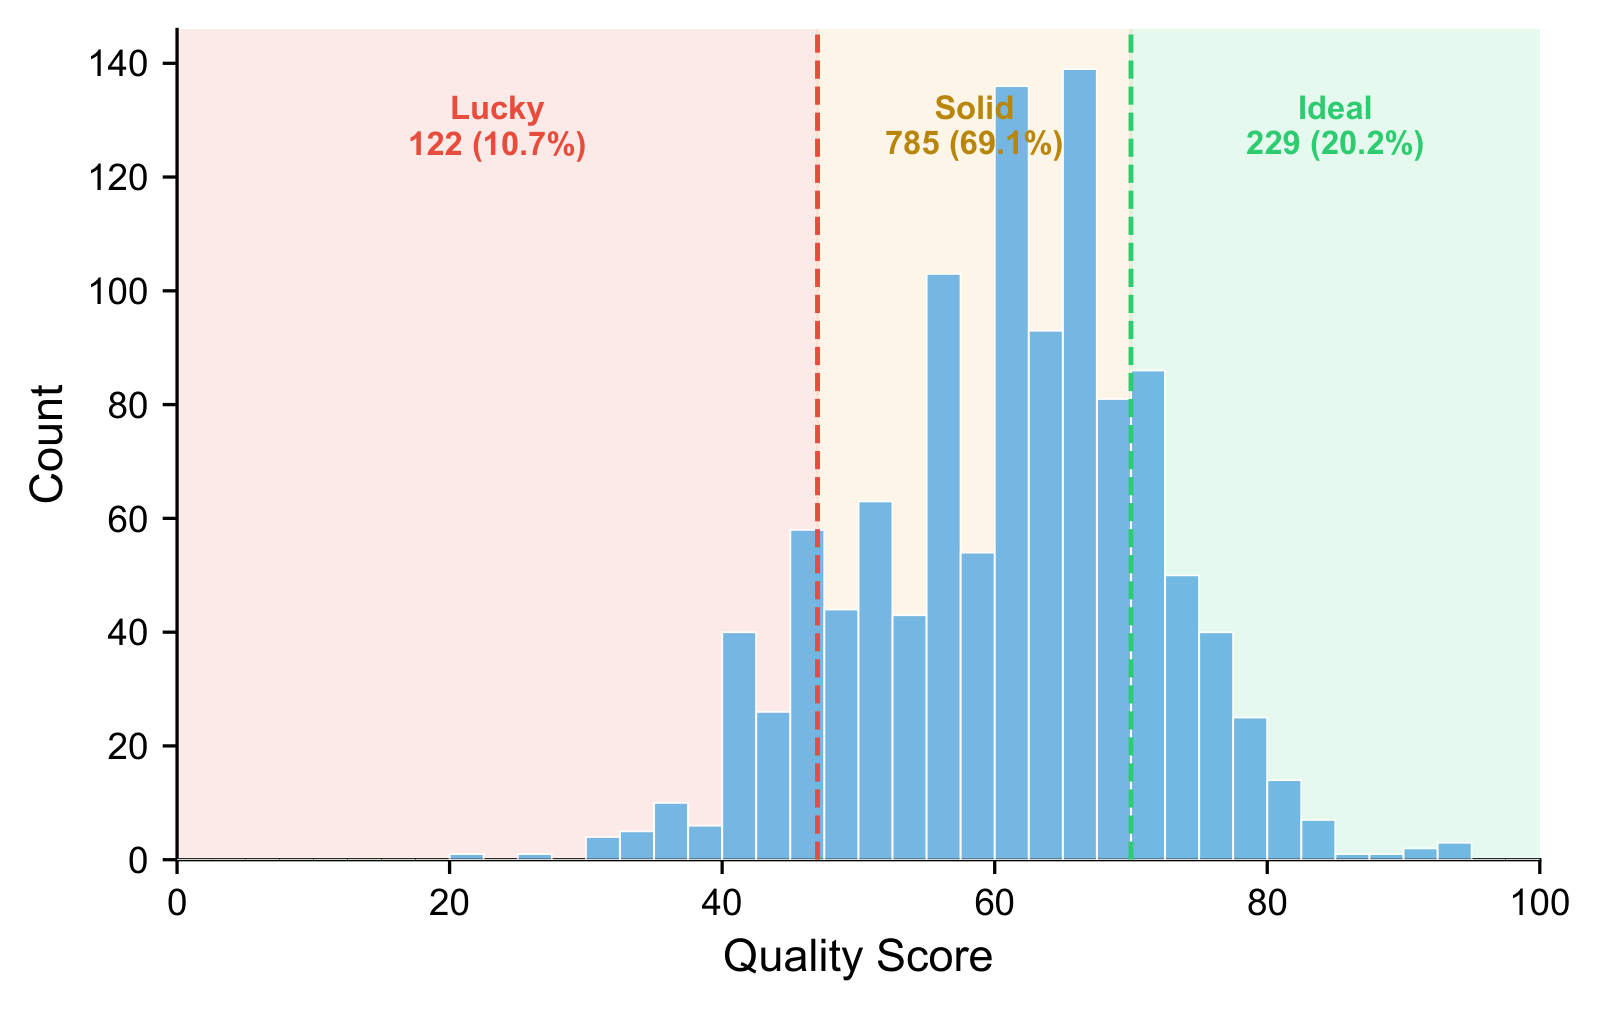
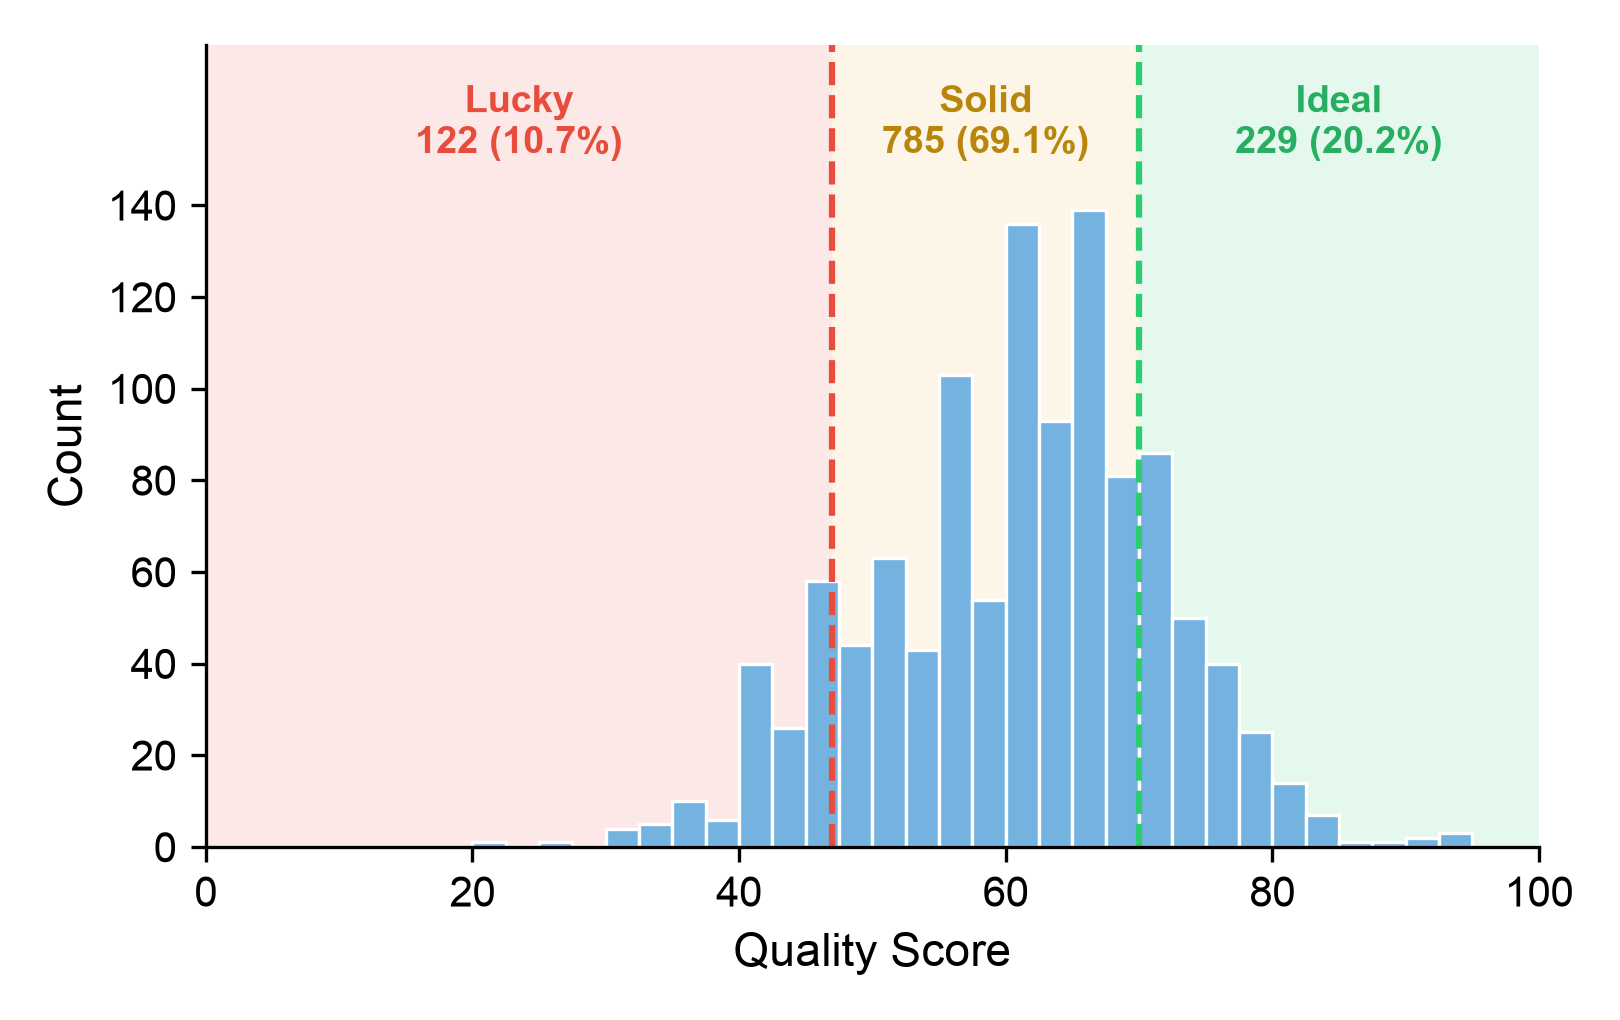
Move Figure 1 tier labels above the histogram and add its plotting script
The tier labels in the quality-distribution figure overlapped the tallest
bars. Regenerate the figure from the released AgentLens-Bench annotations
with the labels in headroom above the histogram, and add the script so the
figure can be reproduced.

diff --git a/website/index.html b/website/index.html
@@ -193,7 +193,7 @@ footer { color: var(--muted); font-size: var(--tiny); border-top: 1px solid var(
   </header>
 
   <figure class="teaser">
-    <img src="assets/quality_distribution.png" width="1600" height="1011"
+    <img src="assets/quality_distribution.png" width="1620" height="1020"
          alt="Histogram of quality scores for 1,136 passing trajectories, split into Lucky (122, 10.7%), Solid (785, 69.1%) and Ideal (229, 20.2%) bands.">
     <figcaption><b>Passing trajectories are not behaviorally homogeneous.</b> Among 1,136 passing trajectories in AgentLens-Bench, AgentLens classifies 229 as Ideal (20.2%), 785 as Solid (69.1%), and 122 as Lucky (10.7%). Binary evaluation treats all of these trajectories as equally successful, while process-aware scoring separates direct, coherent solutions from weak processes that happen to pass.</figcaption>
   </figure>

diff --git a/experiments/plot_quality_distribution.py b/experiments/plot_quality_distribution.py
@@ -1,0 +1,84 @@
+"""
+Quality Distribution Figure
+===========================
+Reproduces the paper's Figure 1: the quality-score histogram of the passing
+trajectories in AgentLens-Bench, shaded by tier (Lucky < 47, Solid, Ideal >= 70).
+
+Reads the released annotations, so no SDK run is needed.
+
+Usage:
+    python experiments/plot_quality_distribution.py
+    python experiments/plot_quality_distribution.py --csv agentlens-bench/annotations/trajectories.csv --out figures
+"""
+
+import argparse
+import csv
+from pathlib import Path
+
+import matplotlib
+
+matplotlib.use("Agg")
+import matplotlib.pyplot as plt
+
+REPO_ROOT = Path(__file__).resolve().parent.parent
+LUCKY_MAX_SCORE = 47  # passing runs below this are Lucky
+IDEAL_MIN_SCORE = 70  # passing runs at or above this are Ideal
+
+TIERS = [
+    # (label, x position of the label, label color, shading color, lower, upper)
+    ("Lucky", 23.5, "#e74c3c", "#e74c3c", 0, LUCKY_MAX_SCORE),
+    ("Solid", 58.5, "#b7860b", "#f5b041", LUCKY_MAX_SCORE, IDEAL_MIN_SCORE),
+    ("Ideal", 85.0, "#27ae60", "#2ecc71", IDEAL_MIN_SCORE, 100),
+]
+
+
+def load_passing_scores(csv_path: Path) -> list:
+    with open(csv_path, newline="") as f:
+        return [float(r["quality_score"]) for r in csv.DictReader(f) if r["passed"] == "True"]
+
+
+def plot(scores: list, out_dir: Path) -> None:
+    n = len(scores)
+    counts = {name: sum(lo <= s < hi for s in scores) for name, _, _, _, lo, hi in TIERS}
+    counts["Ideal"] += sum(s >= 100 for s in scores)  # the top bin includes 100
+
+    plt.rcParams.update({"font.family": ["Arial", "Helvetica", "DejaVu Sans"], "pdf.fonttype": 42})
+    fig, ax = plt.subplots(figsize=(5.4, 3.4))
+    for _, _, _, shade, lo, hi in TIERS:
+        ax.axvspan(lo, hi, color=shade, alpha=0.12, lw=0)
+    ax.hist(scores, bins=[i * 2.5 for i in range(41)], color="#74b3e0", edgecolor="white", lw=0.8)
+    ax.axvline(LUCKY_MAX_SCORE, color="#e74c3c", ls="--", lw=1.5)
+    ax.axvline(IDEAL_MIN_SCORE, color="#2ecc71", ls="--", lw=1.5)
+
+    # Leave headroom above the tallest bar so the tier labels never overlap the histogram.
+    ax.set_ylim(0, 175)
+    ax.set_yticks(range(0, 141, 20))
+    for name, x, color, *_ in TIERS:
+        c = counts[name]
+        ax.text(x, 158, f"{name}\n{c} ({100 * c / n:.1f}%)", ha="center", va="center",
+                color=color, fontsize=9, fontweight="bold")
+
+    ax.set_xlim(0, 100)
+    ax.set_xlabel("Quality Score", fontsize=11)
+    ax.set_ylabel("Count", fontsize=11)
+    ax.spines[["top", "right"]].set_visible(False)
+    fig.tight_layout()
+
+    out_dir.mkdir(parents=True, exist_ok=True)
+    fig.savefig(out_dir / "fig_quality_distribution.pdf")
+    fig.savefig(out_dir / "fig_quality_distribution.png", dpi=300)
+    print(f"{n} passing trajectories: " + ", ".join(f"{k} {v}" for k, v in counts.items()))
+    print(f"Wrote {out_dir / 'fig_quality_distribution.pdf'} and .png")
+
+
+def main():
+    parser = argparse.ArgumentParser(description="Plot the quality-score distribution of passing trajectories (paper Figure 1).")
+    parser.add_argument("--csv", type=Path, default=REPO_ROOT / "agentlens-bench" / "annotations" / "trajectories.csv",
+                        help="AgentLens-Bench trajectory annotations")
+    parser.add_argument("--out", type=Path, default=Path("figures"), help="Output directory")
+    args = parser.parse_args()
+    plot(load_passing_scores(args.csv), args.out)
+
+
+if __name__ == "__main__":
+    main()

diff --git a/experiments/README.md b/experiments/README.md
@@ -63,6 +63,7 @@ python experiments/merge_order_study/run_merge_order_study.py <task_dir> \
 | `run_full_experiment.py` | Process all tasks at scale — generate individual PTAs and merge per task. |
 | `compute_correlation_metrics.py` | Quick correlation analysis on existing experiment outputs (may overfit). |
 | `create_visualizations.py` | Generate interactive D3.js PTA graph visualizations. |
+| `plot_quality_distribution.py` | Reproduce the paper's Figure 1 (quality-score tiers of passing trajectories) from the released AgentLens-Bench annotations. Requires `matplotlib`. |
 
 ---
 
